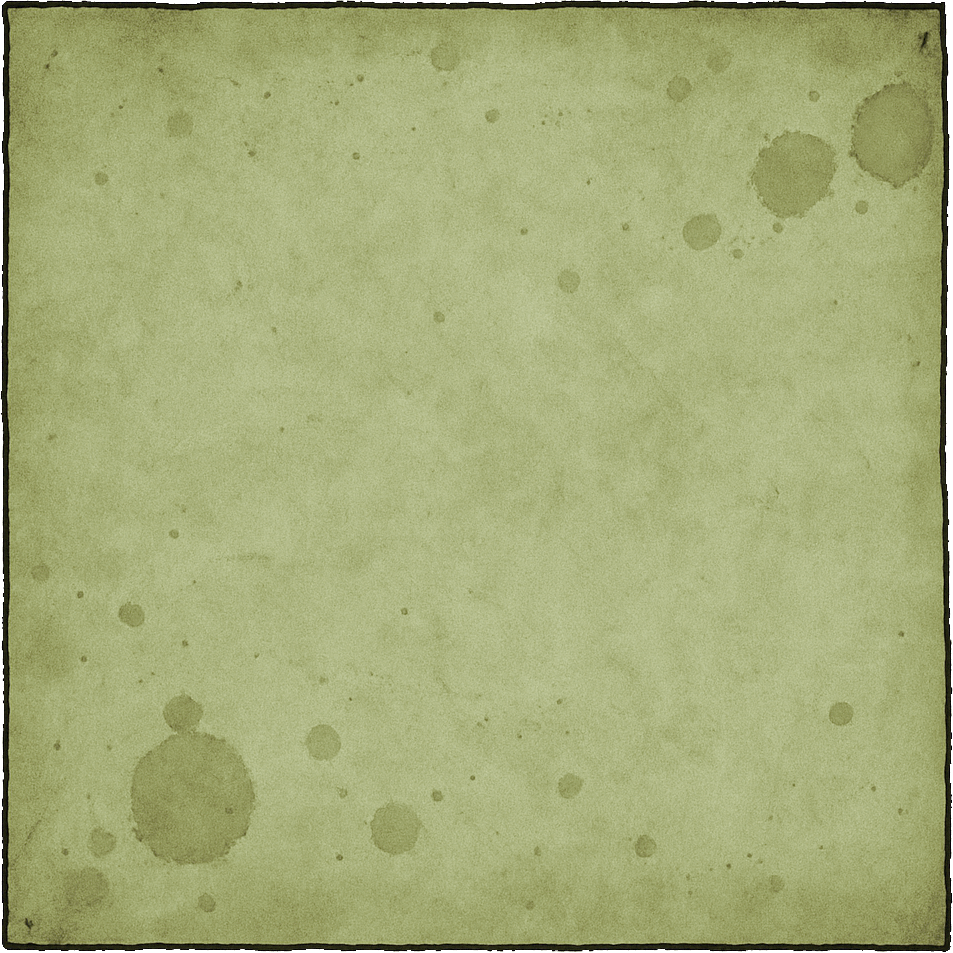
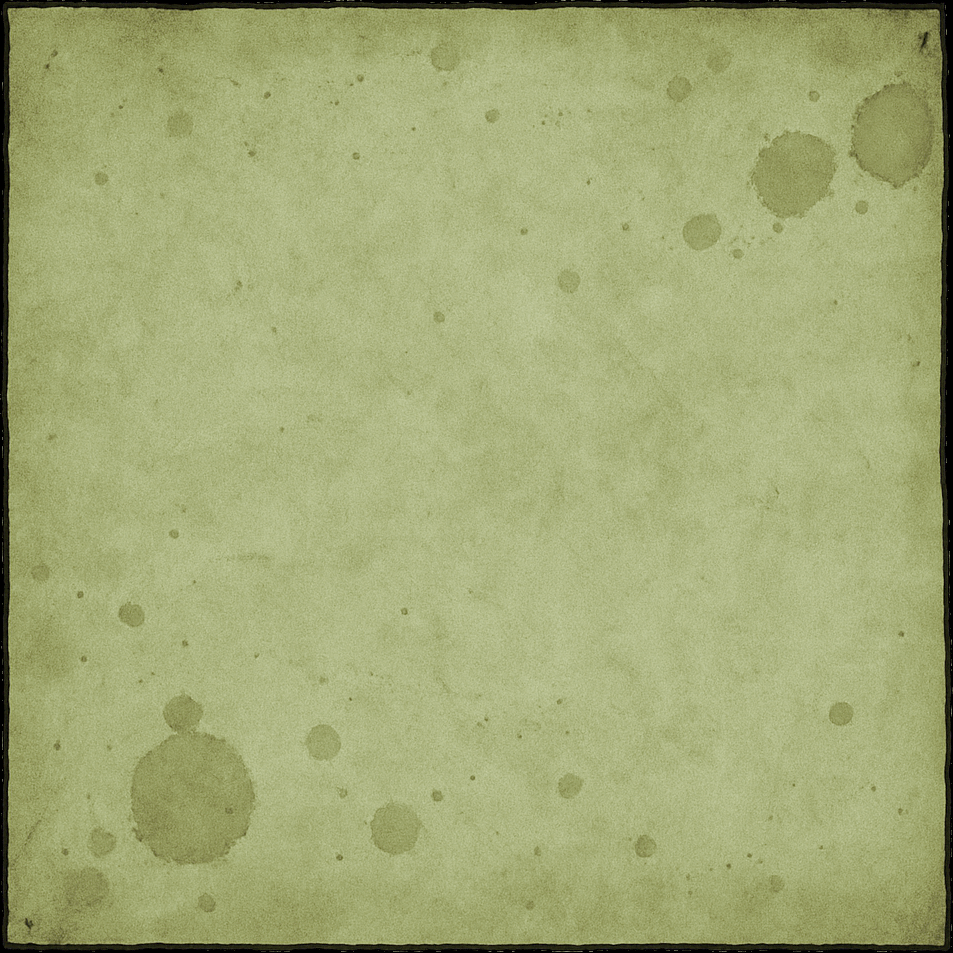
improve paper graphic

diff --git a/bar101-game/src/pixi/GameAssets.js b/bar101-game/src/pixi/GameAssets.js
@@ -35,7 +35,7 @@ class GameAssets {
       'img/shaker_top.png',
       'img/shaker_special.png',
       'img/recipes.png',
-      'img/paper.png',
+      'img/paper.jpg',
       'img/rocks_drawing.png',
       'img/coupe_drawing.png',
       'img/bci_scanner.png',

diff --git a/bar101-game/src/pixi/common/PaperSheet.js b/bar101-game/src/pixi/common/PaperSheet.js
@@ -1,7 +1,7 @@
 import * as PIXI from 'pixi.js';
 import GameAssets from '../GameAssets';
 
-const PAPER_ASSET_NAME = 'img/paper.png';
+const PAPER_ASSET_NAME = 'img/paper.jpg';
 const PAGE_MARGIN = 50;
 
 class PaperSheet extends PIXI.Container {

diff --git a/bar101-game/docs/assets_optimisation.md b/bar101-game/docs/assets_optimisation.md
@@ -10,4 +10,5 @@ Disable Caching
 | 2025-05-10 | Baseline              |       67 |           19.3 |          9.1 |         19.87 |           2.09 |
 | 2025-05-13 | Optimize news         |       67 |           12.3 |          9.1 |         12.67 |           2.22 |
 | 2025-05-13 | Optimize bar bg       |       67 |           11.1 |          9.1 |         11.45 |           2.14 |
+| 2025-05-13 | Optimize paper        |       67 |            9.4 |          9.1 |         10.22 |           2.42 |
 
